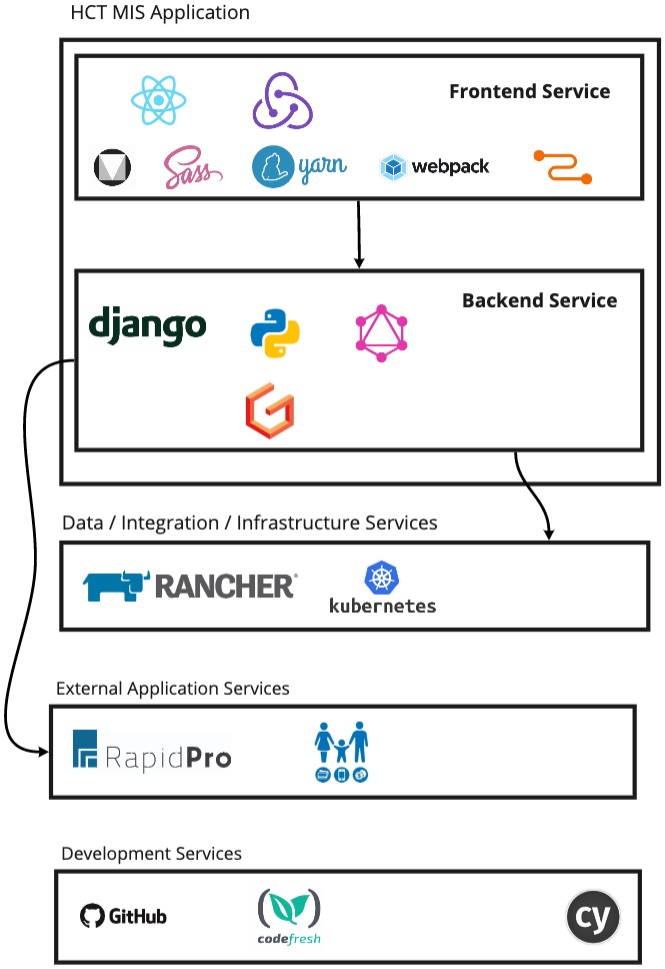
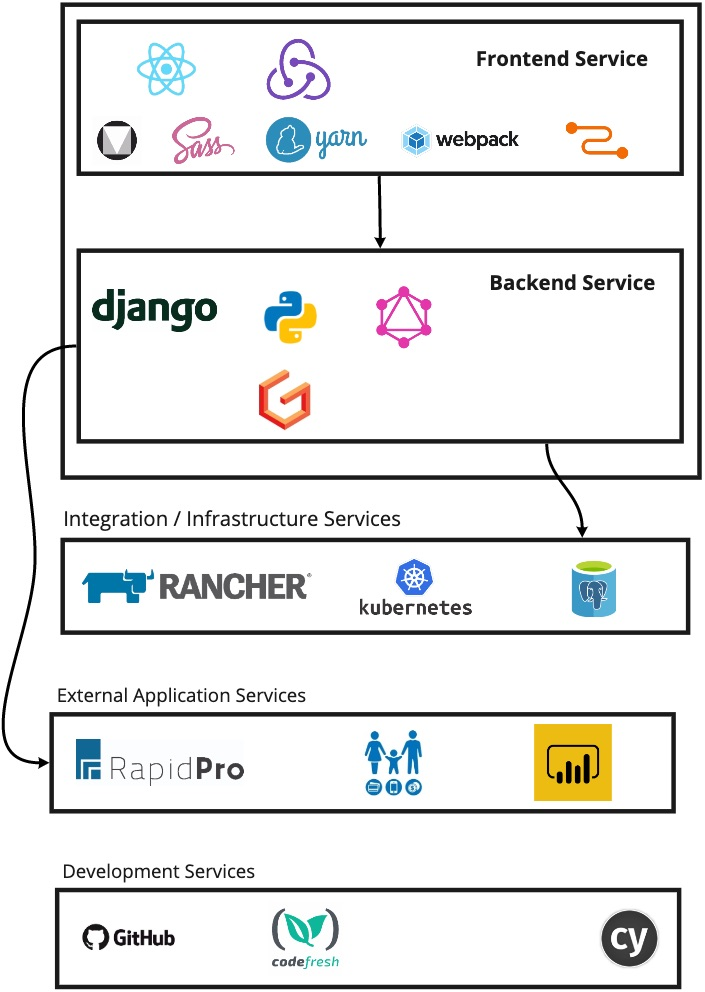
GitBook: [develop] 13 pages and 2 assets modified

diff --git a/docs/SUMMARY.md b/docs/SUMMARY.md
@@ -5,7 +5,9 @@
 
 ## Introduction
 
-* [Glossary / Terminology](introduction/glossary-terminology.md)
+* [Glossary / Terminology](introduction/glossary-terminology/README.md)
+  * [Technical](introduction/glossary-terminology/technical.md)
+  * [CashAssist](introduction/glossary-terminology/cashassist.md)
 * [FAQ](introduction/faq.md)
 * [Team](introduction/team/README.md)
   * [Project Team RACI](introduction/team/project-team-raci.md)
@@ -39,11 +41,13 @@
 
 ## Technical Specification
 
-* [Technical Architecture](technical-specification/technical-architecture.md)
-* [Development Setup / Process](technical-specification/development-setup.md)
+* [Technical Architecture](technical-specification/technical-architecture/README.md)
+  * [DevOps / Infra](technical-specification/technical-architecture/devops-infra.md)
+  * [Flexible Fields](technical-specification/technical-architecture/flexible-fields.md)
+* [Development Setup / Process](technical-specification/development-setup/README.md)
+  * [Testing Strategy](technical-specification/development-setup/testing-strategy.md)
 * [Data Model](technical-specification/data-model.md)
 * [Offline Capabilities](technical-specification/offline-capabilities.md)
-* [DevOps / Infra](technical-specification/devops-infra.md)
 * [CashAssist Integration](technical-specification/cashassist-integration/README.md)
   * [Open Issues](technical-specification/cashassist-integration/open-issues.md)
 

diff --git a/docs/technical-specification/technical-architecture/devops-infra.md b/docs/technical-specification/technical-architecture/devops-infra.md
@@ -1,0 +1,26 @@
+# DevOps / Infra
+
+### CI / CD
+
+For CI and CD we will leverage [CodeFresh](https://codefresh.io/) \(CF\). Builds will be triggered by commits to our git repository in Github. There will be as many pipelines as environments \(see below\).
+
+CodeFresh will build all images \(one per service\), run [unit and E2E tests](../development-setup/testing-strategy.md) and if successful push the images to the CF registry and eventually push to the images for deployment to the appropriate environment.
+
+### Infra
+
+It has been decided to centrally host HCT MIS on Microsoft Azure. We will leverage [Rancher](https://rancher.com) and [Kubernetes](https://kubernetes.io/) to run all our dockerized services. These would run on Azure compute nodes.
+
+#### Setup
+
+Ideally we would like to leverage [Terraform](https://www.terraform.io/docs/providers/azurerm/index.html) to have a replicable infrastructure setup that is documented in code.
+
+#### Environments
+
+We will have a development, staging, UAT and production environment ideally, each of which are identical and run in their own sandboxed setup.
+
+#### PostgreSQL
+
+For the relational database we will leverage [Azure PostgreSQL](https://azure.microsoft.com/en-us/services/postgresql/) as provisioned by UNICEF IT Services.
+
+
+

diff --git a/docs/technical-specification/technical-architecture/flexible-fields.md b/docs/technical-specification/technical-architecture/flexible-fields.md
@@ -1,0 +1,12 @@
+# Flexible Fields
+
+Its required to have the capability to add fields \(attributes\) to household and beneficiary data models per country.
+
+To enable this we propose leveraging [JSON data type in PostgreSQL](https://www.postgresql.org/docs/current/datatype-json.html). This field type provides a NoSQL type capability inside a relational database. Since our needs are reasonably humble, we propose using it.
+
+The actual field definitions at the country level, will act as the template for the field itself. These fields would then be attached to household or beneficiaries either at a global or per intervention levels.
+
+Once set the actual data captured will be stored as JSONField's on the HouseHold and Beneficiary data models themselves, with the keys of those JSONField entries pointing to the ID's of the definitions themselves.
+
+
+

diff --git a/docs/technical-specification/technical-architecture/README.md b/docs/technical-specification/technical-architecture/README.md
@@ -1,0 +1,18 @@
+# Technical Architecture
+
+### Breakup into various Services
+
+The goal is to have separation of the user interfaces \(be it mobile / PWA or web application interface\) and backend logic.
+
+The frontend will be a React based application leveraging UNICEF design philosophy that is built on top of Material Design.
+
+The backend will be a Django and Python application, exposing a [GraphQL](https://graphql.org/) API that leverages [Graphene](https://graphene-python.org).
+
+![](../../.gitbook/assets/unicef_hct-mis__online_whiteboard_for_visual_collaboration%20%283%29.jpg)
+
+### Application components / sub-components
+
+These may or may not map 1:1 to the modules being speced.
+
+![](../../.gitbook/assets/unicef_hct-mis__online_whiteboard_for_visual_collaboration%20%282%29.jpg)
+

diff --git a/docs/introduction/glossary-terminology/technical.md b/docs/introduction/glossary-terminology/technical.md
@@ -1,0 +1,14 @@
+# Technical
+
+Technical terms being used in the specification.
+
+
+
+| Term / Acronym | Definition / Detail |
+| :--- | :--- |
+| CD | Stands for 'Continuous Deployment'. Typically follows CI and implies how the code or built docker images are going to get deployed into any infrastructure. For production environments it may not make sense to have CD enabled always. |
+| CI | Stands for 'Continuous Integration'. This implies that code that is written is being evaluated, run through automated tests, potentially being successfully built \(think Docker images\) and pushed to a central secure registry \(docker registry for example\). |
+| CI / CD | Used as a combination of CI and CD |
+
+
+

diff --git a/docs/technical-specification/development-setup/README.md b/docs/technical-specification/development-setup/README.md
@@ -11,11 +11,11 @@
 
 ## Development / Build / Deployment Process
 
-![Engineering Process](../.gitbook/assets/unicef_hct-mis__online_whiteboard_for_visual_collaboration%20%281%29.jpg)
+![Engineering Process](../../.gitbook/assets/unicef_hct-mis__online_whiteboard_for_visual_collaboration%20%281%29.jpg)
 
 ## Git Branching
 
-![Git Branching Model](../.gitbook/assets/unicef_hct-mis__online_whiteboard_for_visual_collaboration.jpg)
+![Git Branching Model](../../.gitbook/assets/unicef_hct-mis__online_whiteboard_for_visual_collaboration.jpg)
 
 
 

diff --git a/docs/introduction/glossary-terminology/cashassist.md b/docs/introduction/glossary-terminology/cashassist.md
@@ -1,0 +1,12 @@
+# CashAssist
+
+Following are glossary terms that are CashAssist specific. These should help in mapping of terms and also as we integrate with CashAssist to fully understand their concepts for a smoother integration.
+
+
+
+| Term / Acronym | Definition / Detail |
+| :--- | :--- |
+| BU | 'Business Unit', which will be named "UNICEF Jordan", "UNICEF Somalia", etc. and programs/users/beneficiary data are associated with this BU on CashAssist side. In the UNICEF terminology this somewhat maps to the 'Business Area'. |
+
+
+

diff --git a/docs/technical-specification/development-setup/testing-strategy.md b/docs/technical-specification/development-setup/testing-strategy.md
@@ -1,0 +1,12 @@
+# Testing Strategy
+
+### Unit Testing
+
+...
+
+### E2E Testing
+
+...
+
+
+
